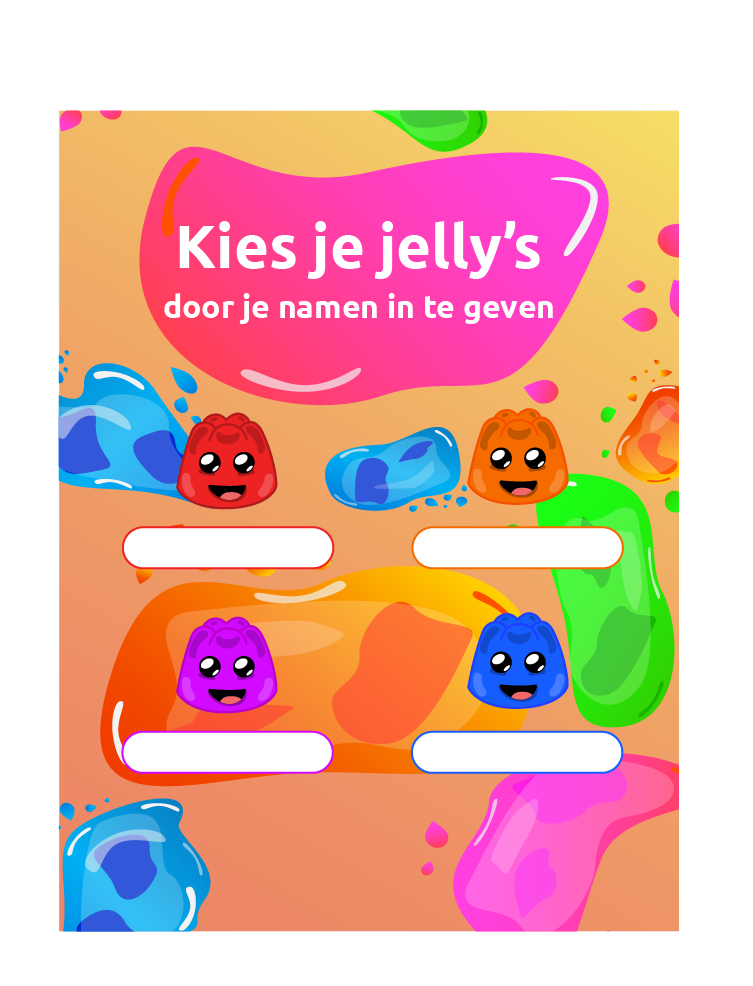
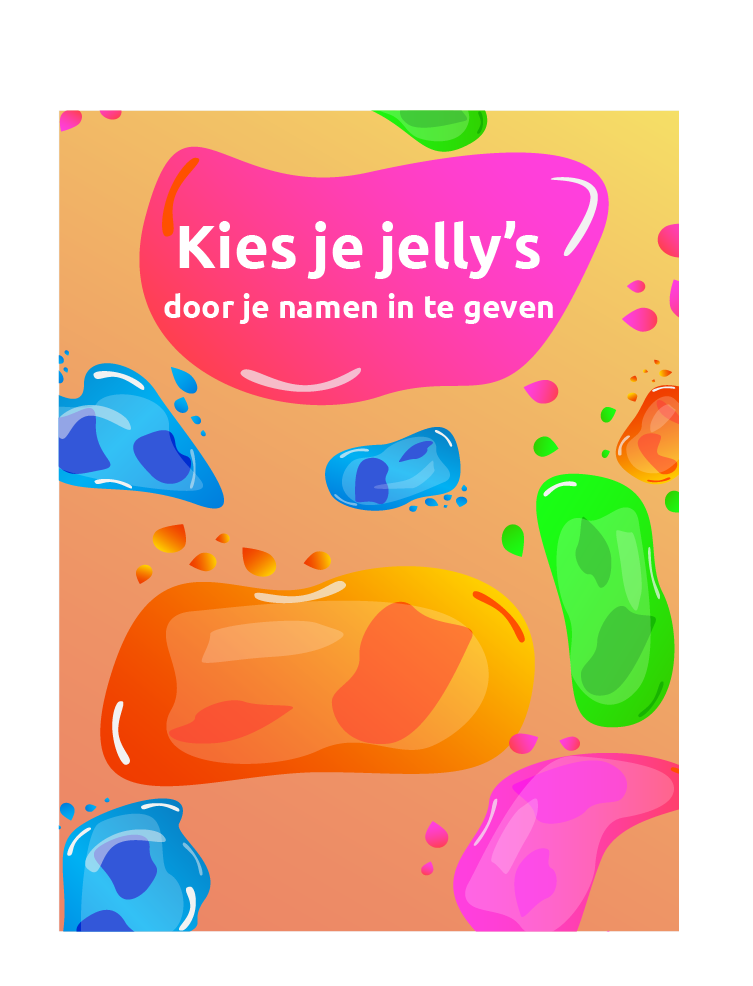
scherm met namen werkt en je kan kiezen hoeveel spelers

diff --git a/src/classes/scenes/ChooseScene.js b/src/classes/scenes/ChooseScene.js
@@ -5,21 +5,320 @@ export default class StartScene extends Phaser.Scene {
     });
   }
 
-  init() {}
+  init() {
+    if (this.textEntryRed) {
+      this.textEntryRed = undefined;
+    }
+    if (this.textEntryOrange) {
+      this.textEntryOrange = undefined;
+    }
+    if (this.textEntryPurple) {
+      this.textEntryPurple = undefined;
+    }
+    if (this.textEntryBlue) {
+      this.textEntryBlue = undefined;
+    }
+  }
 
   preload() {}
 
   create() {
     this.add.image(318, 382, `bg_choose`);
+    this.red = this.add.sprite(170, 385, `redTextEntry`).setInteractive();
+    this.orange = this.add.sprite(450, 385, `orangeTextEntry`).setInteractive();
+    this.purple = this.add.sprite(170, 590, `purpleTextEntry`).setInteractive();
+    this.blue = this.add.sprite(450, 590, `blueTextEntry`).setInteractive();
     this.start = this.add.sprite(311, 750, `start`).setInteractive();
 
     this.start.on('pointerdown', () => {
       this.start.setScale(1.03);
     });
     this.start.on('pointerup', () => {
-      this.scene.start(`game`);
       this.start.setScale(1);
+      this.startGame();
     });
+
+    this.red.on('pointerdown', () => {
+      this.red.setScale(1.1);
+    });
+    this.red.on('pointerup', () => {
+      if (this.textEntryRed) {
+        this.red.setScale(1);
+        this.textEntryRed.destroy();
+        this.textEntryRed = undefined;
+      } else {
+        this.textEntryRed = this.add.text(80, 432, '', {
+          font: '30px Ubuntu',
+          fill: `red`
+        });
+        this.input.keyboard.off(`keydown`);
+        this.updateText(this.textEntryRed);
+      }
+    });
+    this.orange.on('pointerdown', () => {
+      this.orange.setScale(1.1);
+    });
+    this.orange.on('pointerup', () => {
+      if (this.textEntryOrange) {
+        this.orange.setScale(1);
+        this.textEntryOrange.destroy();
+        this.textEntryOrange = undefined;
+      } else {
+        this.textEntryOrange = this.add.text(360, 432, '', {
+          font: '30px Ubuntu',
+          fill: `orange`
+        });
+        this.input.keyboard.off(`keydown`);
+        this.updateText(this.textEntryOrange);
+      }
+    });
+    this.purple.on('pointerdown', () => {
+      this.purple.setScale(1.1);
+    });
+    this.purple.on('pointerup', () => {
+      if (this.textEntryPurple) {
+        this.purple.setScale(1);
+        this.textEntryPurple.destroy();
+        this.textEntryPurple = undefined;
+      } else {
+        this.textEntryPurple = this.add.text(80, 637, '', {
+          font: '30px Ubuntu',
+          fill: `purple`
+        });
+        this.input.keyboard.off(`keydown`);
+        this.updateText(this.textEntryPurple);
+      }
+    });
+    this.blue.on('pointerdown', () => {
+      this.blue.setScale(1.1);
+    });
+    this.blue.on('pointerup', () => {
+      if (this.textEntryBlue) {
+        this.blue.setScale(1);
+        this.textEntryBlue.destroy();
+        this.textEntryBlue = undefined;
+      } else {
+        this.textEntryBlue = this.add.text(360, 637, '', {
+          font: '30px Ubuntu',
+          fill: `blue`
+        });
+        this.input.keyboard.off(`keydown`);
+        this.updateText(this.textEntryBlue);
+      }
+    });
+  }
+
+  updateText(textEntry) {
+    this.keySpace = this.input.keyboard.addKey(
+      Phaser.Input.Keyboard.KeyCodes.SPACE
+    );
+    this.keyBackspace = this.input.keyboard.addKey(
+      Phaser.Input.Keyboard.KeyCodes.BACKSPACE
+    );
+    this.input.keyboard.on(`keydown`, event => {
+      if (event.keyCode === 8 && textEntry.text.length > 0) {
+        if (textEntry.text.length < 12) {
+          textEntry.text = textEntry.text.substr(0, textEntry.text.length - 1);
+        }
+      } else if (
+        event.keyCode === 32 ||
+        (event.keyCode >= 48 && event.keyCode < 90)
+      ) {
+        if (textEntry.text.length < 11) {
+          textEntry.text += event.key;
+        }
+      }
+    });
+  }
+
+  startGame() {
+    if (
+      this.textEntryRed !== undefined &&
+      this.textEntryOrange !== undefined &&
+      this.textEntryPurple !== undefined &&
+      this.textEntryBlue !== undefined
+    ) {
+      this.scene.start(`game`, {
+        name1: this.textEntryRed.text,
+        color1: `red`,
+        name2: this.textEntryOrange.text,
+        color2: `orange`,
+        name3: this.textEntryPurple.text,
+        color3: `purple`,
+        name4: this.textEntryBlue.text,
+        color4: `blue`
+      });
+    }
+    if (
+      this.textEntryRed !== undefined &&
+      this.textEntryOrange !== undefined &&
+      this.textEntryPurple !== undefined &&
+      this.textEntryBlue === undefined
+    ) {
+      this.scene.start(`game`, {
+        name1: this.textEntryRed.text,
+        color1: `red`,
+        name2: this.textEntryOrange.text,
+        color2: `orange`,
+        name3: this.textEntryPurple.text,
+        color3: `purple`,
+        name4: undefined,
+        color4: undefined
+      });
+    }
+    if (
+      this.textEntryRed !== undefined &&
+      this.textEntryOrange !== undefined &&
+      this.textEntryPurple === undefined &&
+      this.textEntryBlue !== undefined
+    ) {
+      this.scene.start(`game`, {
+        name1: this.textEntryRed.text,
+        color1: `red`,
+        name2: this.textEntryOrange.text,
+        color2: `orange`,
+        name3: this.textEntryBlue.text,
+        color3: `blue`,
+        name4: undefined,
+        color4: undefined
+      });
+    }
+    if (
+      this.textEntryRed !== undefined &&
+      this.textEntryOrange === undefined &&
+      this.textEntryPurple !== undefined &&
+      this.textEntryBlue !== undefined
+    ) {
+      this.scene.start(`game`, {
+        name1: this.textEntryRed.text,
+        color1: `red`,
+        name2: this.textEntryPurple.text,
+        color2: `purple`,
+        name3: this.textEntryBlue.text,
+        color3: `blue`,
+        name4: undefined,
+        color4: undefined
+      });
+    }
+    if (
+      this.textEntryRed === undefined &&
+      this.textEntryOrange !== undefined &&
+      this.textEntryPurple !== undefined &&
+      this.textEntryBlue !== undefined
+    ) {
+      this.scene.start(`game`, {
+        name1: this.textEntryOrange.text,
+        color1: `orange`,
+        name2: this.textEntryPurple.text,
+        color2: `purple`,
+        name3: this.textEntryBlue.text,
+        color3: `blue`,
+        name4: undefined,
+        color4: undefined
+      });
+    }
+    if (
+      this.textEntryRed !== undefined &&
+      this.textEntryOrange !== undefined &&
+      this.textEntryPurple === undefined &&
+      this.textEntryBlue === undefined
+    ) {
+      this.scene.start(`game`, {
+        name1: this.textEntryRed.text,
+        color1: `red`,
+        name2: this.textEntryOrange.text,
+        color2: `orange`,
+        name3: undefined,
+        color3: undefined,
+        name4: undefined,
+        color4: undefined
+      });
+    }
+    if (
+      this.textEntryRed !== undefined &&
+      this.textEntryOrange === undefined &&
+      this.textEntryPurple !== undefined &&
+      this.textEntryBlue === undefined
+    ) {
+      this.scene.start(`game`, {
+        name1: this.textEntryRed.text,
+        color1: `red`,
+        name2: this.textEntryPurple.text,
+        color2: `purple`,
+        name3: undefined,
+        color3: undefined,
+        name4: undefined,
+        color4: undefined
+      });
+    }
+    if (
+      this.textEntryRed !== undefined &&
+      this.textEntryOrange === undefined &&
+      this.textEntryPurple === undefined &&
+      this.textEntryBlue !== undefined
+    ) {
+      this.scene.start(`game`, {
+        name1: this.textEntryRed.text,
+        color1: `red`,
+        name2: this.textEntryBlue.text,
+        color2: `blue`,
+        name3: undefined,
+        color3: undefined,
+        name4: undefined,
+        color4: undefined
+      });
+    }
+    if (
+      this.textEntryRed === undefined &&
+      this.textEntryOrange !== undefined &&
+      this.textEntryPurple !== undefined &&
+      this.textEntryBlue === undefined
+    ) {
+      this.scene.start(`game`, {
+        name1: this.textEntryOrange.text,
+        color1: `orange`,
+        name2: this.textEntryPurple.text,
+        color2: `purple`,
+        name3: undefined,
+        color3: undefined,
+        name4: undefined,
+        color4: undefined
+      });
+    }
+    if (
+      this.textEntryRed === undefined &&
+      this.textEntryOrange !== undefined &&
+      this.textEntryPurple === undefined &&
+      this.textEntryBlue !== undefined
+    ) {
+      this.scene.start(`game`, {
+        name1: this.textEntryOrange.text,
+        color1: `orange`,
+        name2: this.textEntryBlue.text,
+        color2: `blue`,
+        name3: undefined,
+        color3: undefined,
+        name4: undefined,
+        color4: undefined
+      });
+    }
+    if (
+      this.textEntryRed === undefined &&
+      this.textEntryOrange === undefined &&
+      this.textEntryPurple !== undefined &&
+      this.textEntryBlue !== undefined
+    ) {
+      this.scene.start(`game`, {
+        name1: this.textEntryPurple.text,
+        color1: `purple`,
+        name2: this.textEntryBlue.text,
+        color2: `blue`,
+        name3: undefined,
+        color3: undefined,
+        name4: undefined,
+        color4: undefined
+      });
+    }
   }
 
   update() {}

diff --git a/src/classes/scenes/PreloadScene.js b/src/classes/scenes/PreloadScene.js
@@ -29,6 +29,10 @@ import './../../assets/redJelly.png';
 import './../../assets/purpleJelly.png';
 import './../../assets/orangeJelly.png';
 import './../../assets/blueJelly.png';
+import './../../assets/redTextEntry.png';
+import './../../assets/orangeTextEntry.png';
+import './../../assets/purpleTextEntry.png';
+import './../../assets/blueTextEntry.png';
 
 export default class PreloadScene extends Phaser.Scene {
   constructor() {
@@ -79,6 +83,10 @@ export default class PreloadScene extends Phaser.Scene {
     this.load.image(`purpleJelly`, `./assets/purpleJelly.png`);
     this.load.image(`orangeJelly`, `./assets/orangeJelly.png`);
     this.load.image(`blueJelly`, `./assets/blueJelly.png`);
+    this.load.image(`redTextEntry`, `./assets/redTextEntry.png`);
+    this.load.image(`orangeTextEntry`, `./assets/orangeTextEntry.png`);
+    this.load.image(`purpleTextEntry`, `./assets/purpleTextEntry.png`);
+    this.load.image(`blueTextEntry`, `./assets/blueTextEntry.png`);
   }
 
   onProgress(value) {

diff --git a/src/classes/scenes/GameScene.js b/src/classes/scenes/GameScene.js
@@ -8,19 +8,20 @@ export default class GameScene extends Phaser.Scene {
     });
   }
 
-  init() {
+  init(data) {
     this.vakjes = [];
     this.jellyManager = new JellyManager(this);
     this.playerManager = new PlayerManager(this);
+
     this.playerManager.addPlayers(
-      `Jasper`,
-      `red`,
-      `Frederik`,
-      `orange`,
-      `Anton`,
-      `purple`,
-      undefined,
-      undefined
+      data.name1,
+      data.color1,
+      data.name2,
+      data.color2,
+      data.name3,
+      data.color3,
+      data.name4,
+      data.color4
     );
   }
 
